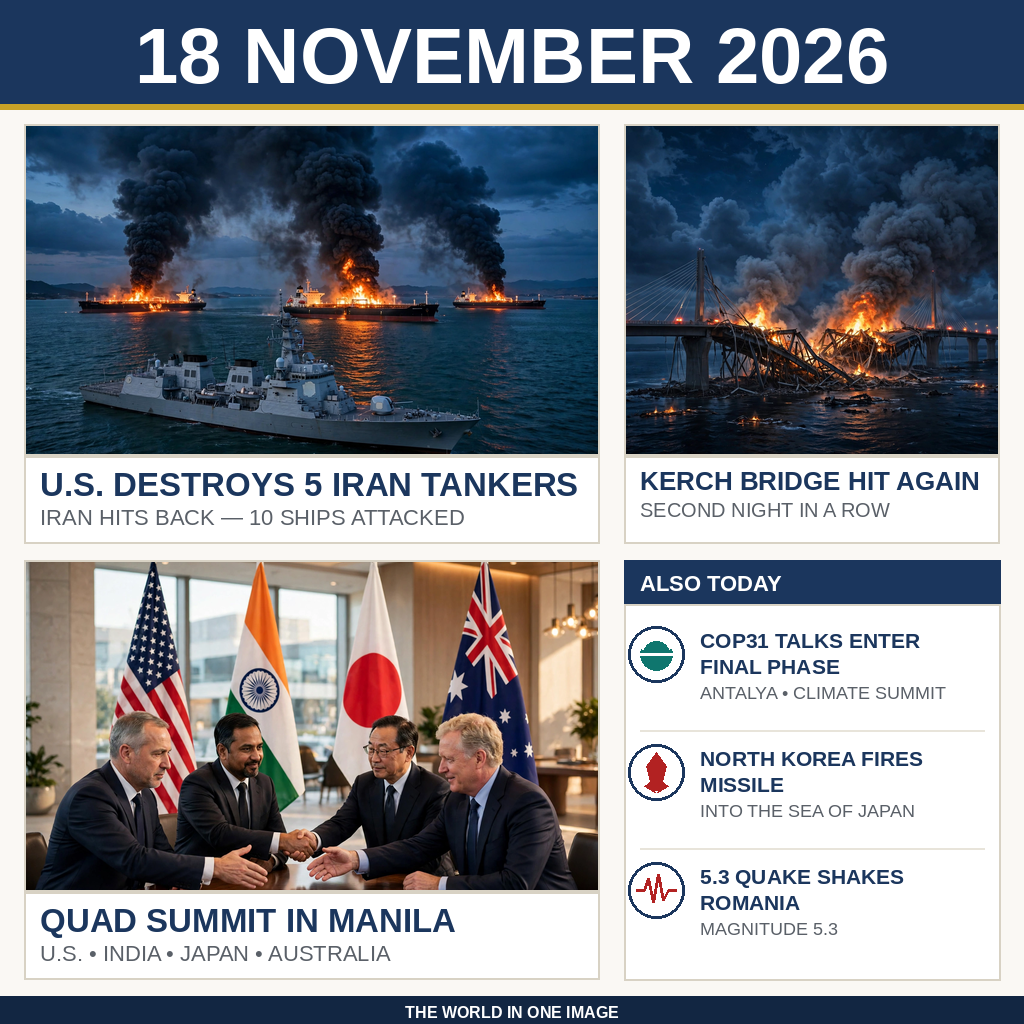
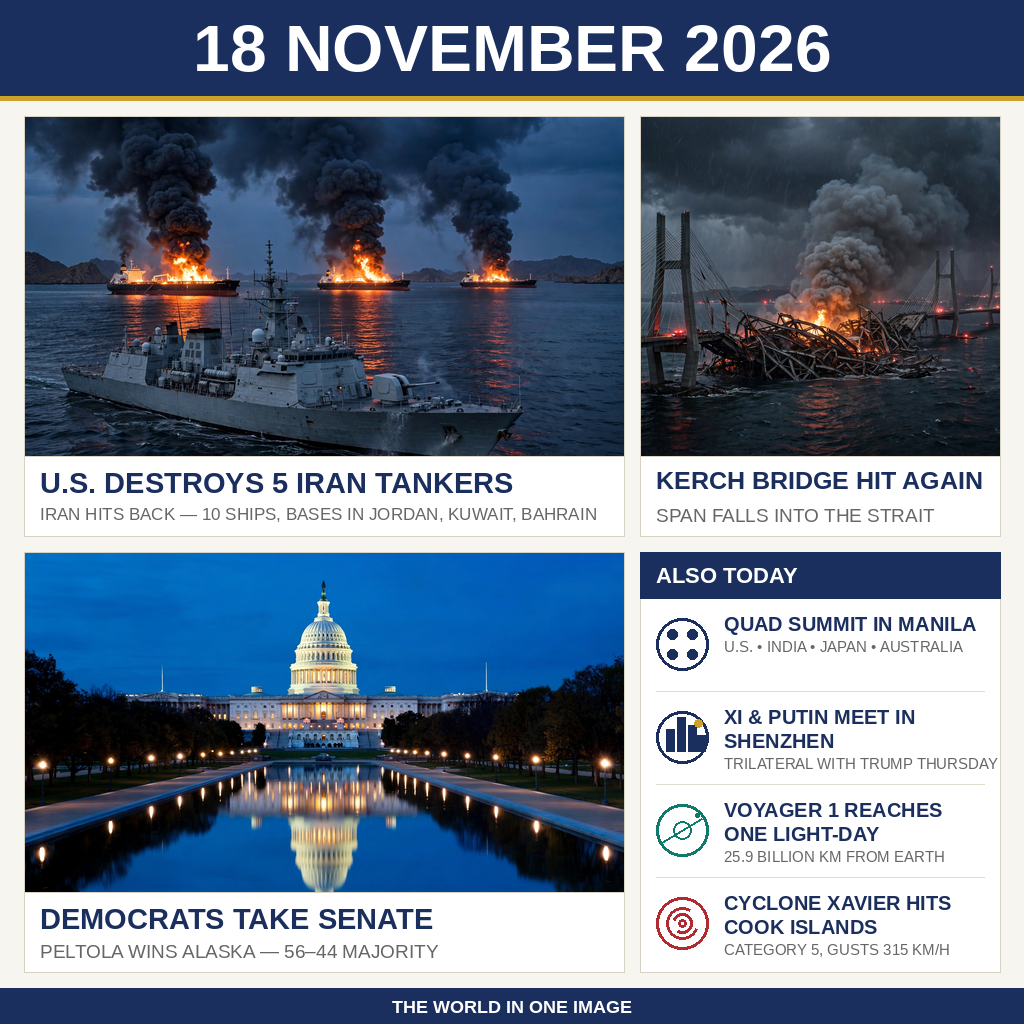
v3: full-day rebuild — Senate win joins tankers, Kerch; Quad/Shenzhen/Voyager/Xavier strip

diff --git a/README.md b/README.md
@@ -4,7 +4,9 @@
 [![rank](https://make.fun/badge/news-image-20261118/kingcritket/news-image-20261118-bot/rank.svg)](https://make.fun/bounty/news-image-20261118/leaderboard?utm_source=github&utm_medium=readme&utm_campaign=news-image-20261118)
 [![reward](https://make.fun/badge/news-image-20261118/kingcritket/news-image-20261118-bot/reward.svg)](https://make.fun/bounty/news-image-20261118?utm_source=github&utm_medium=readme&utm_campaign=news-image-20261118)
 
-One image summing up the world news of Wednesday 18 November 2026: Trump in Manila for Quad talks ahead of APEC, the Crimean Bridge struck a second day, and Nvidia's record quarter amid its CEO scandal.
+One image summing up the world news of Wednesday 18 November 2026: the US destroys five Iranian tankers and Iran hits back at ships and US bases in Jordan, Kuwait and Bahrain; the Kerch Bridge is struck a second night and a span falls into the strait; and Democrat Mary Peltola wins Alaska, giving Democrats a 56–44 Senate majority. Also today: the Quad summit in Manila, Xi and Putin meet in Shenzhen ahead of Thursday's trilateral with Trump, Voyager 1 reaches one light-day from Earth, and Category 5 Cyclone Xavier hits the Cook Islands.
+
+All stories verified against reporting from 18 November 2026 (Al Jazeera, Reuters, AP, AFP, NASA JPL, RNZ, JTWC). Three AI-generated scene photos with no text baked in, composited with PIL; every word on the image is drawn by PIL in Liberation Sans Bold.
 
 ## Run it
 
